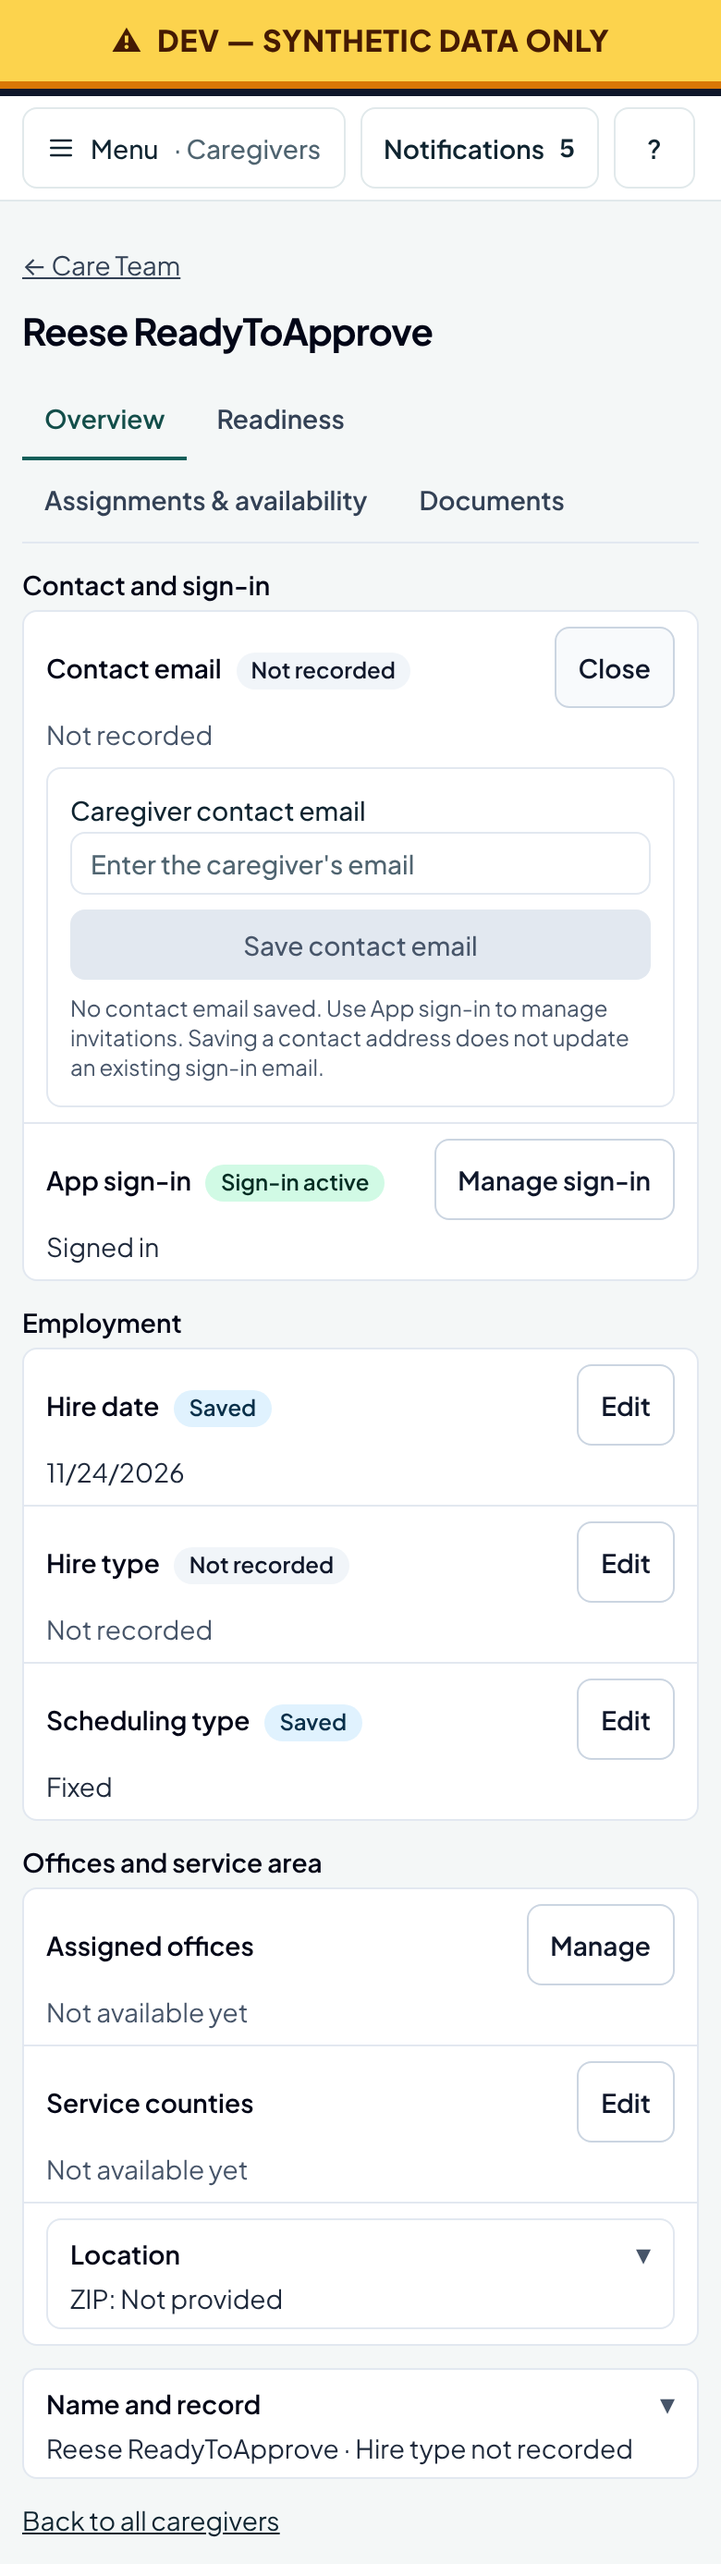
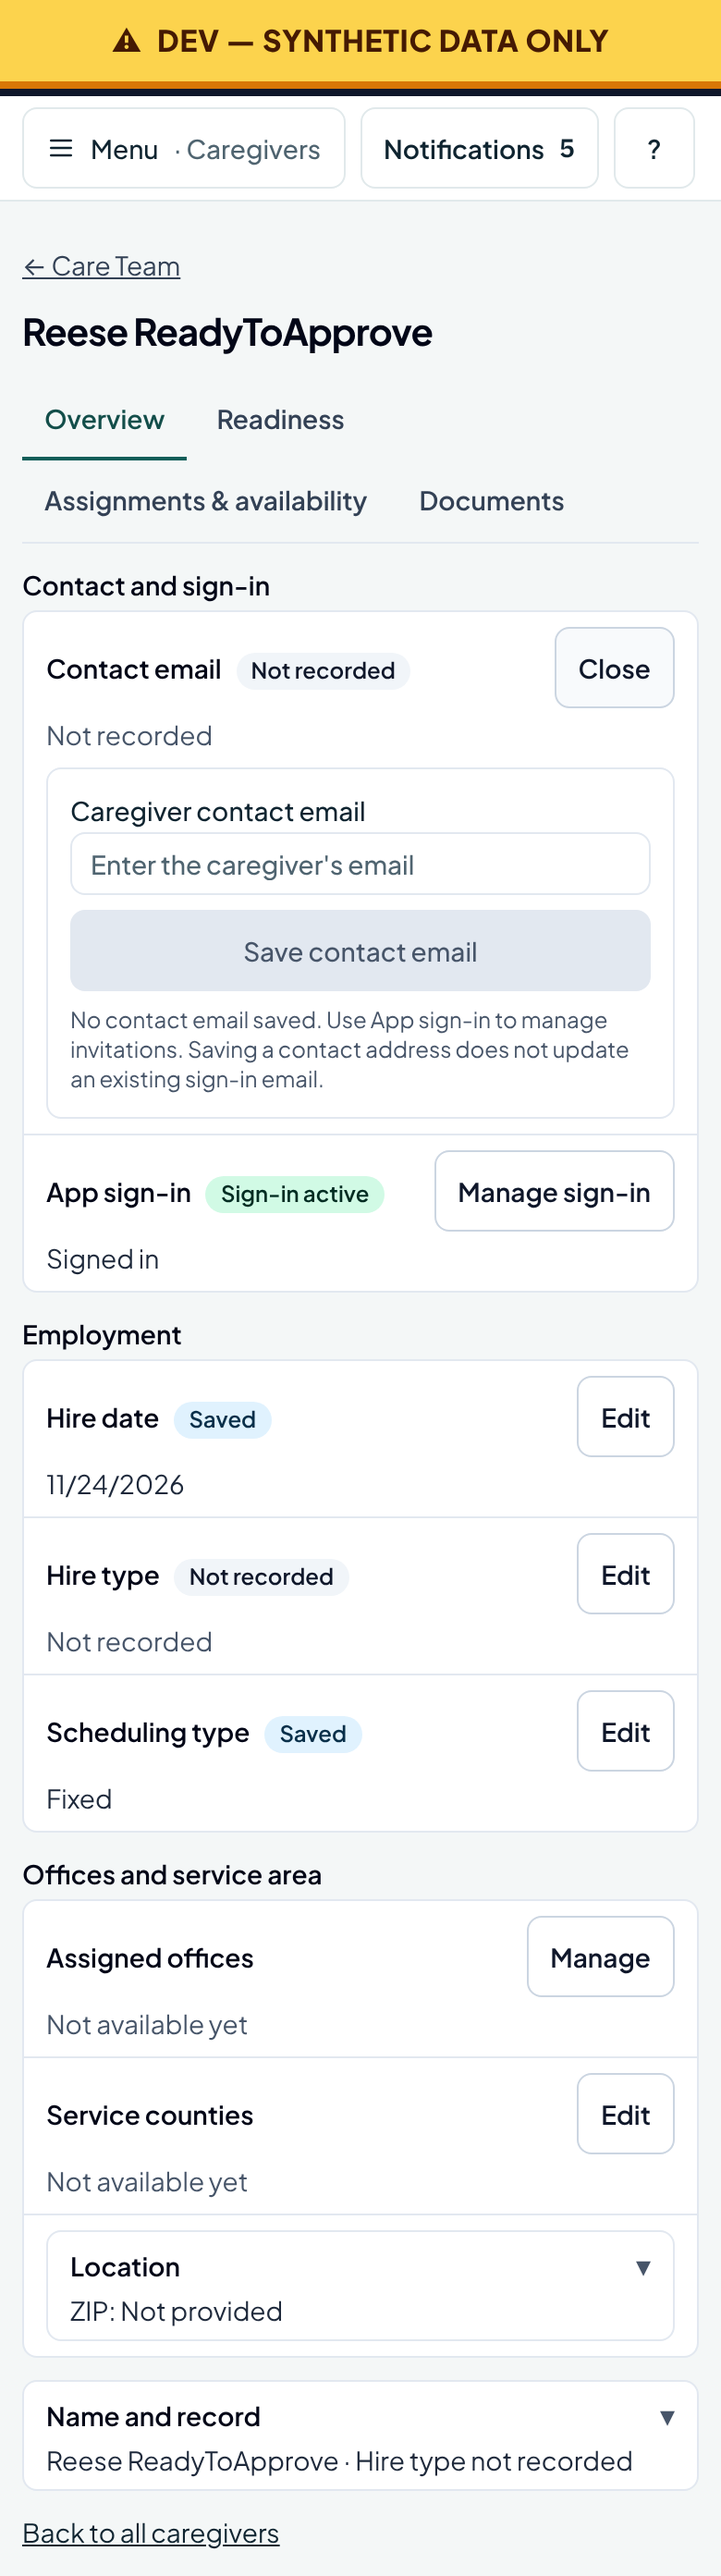
Caregiver profile evidence index
Claude-Session: https://claude.ai/code/session_01FCn44MdMzLt17AVSkrT1Tg

diff --git a/docs/ux/caregiver-profile-evidence/README.md b/docs/ux/caregiver-profile-evidence/README.md
@@ -1,0 +1,8 @@
+# Caregiver profile redesign: local evidence (SYNTHETIC data, local harness, NOT deployed, NOT TEST)
+
+App code commit: `3bdfd9e7` (profile code `6a1f813e` plus the phone 44 px fix). Produced by `infra/aws/local-harness/run-caregiver-profile-pass.sh`: 32 of 32 checks passed (desktop 1360 px and phone 390 px).
+
+- `desktop-*` and `phone-*` `1-overview`, `2-readiness`, `3-assignments`, `4-documents`: the real bundle on the harness database.
+- `*-1b-overview-editing`: the contact email editor opened with Edit.
+- `*-5-readiness-setup-gap-stubbed` and `*-5-readiness-real-hold-stubbed`: the readiness read is answered with a SYNTHETIC approved caregiver (stubbed response) to show the two setup-dependent states: CPR/TB document types not set up (stays Approved, no scheduling hold) and a real hold (reason shown beside Approved). These are layout evidence only, not a server result.
+- Not shown: any TEST environment result. The harness has no real CPR/TB "not set up" state, so that case is proven only by the unit test and the stubbed screenshot.
